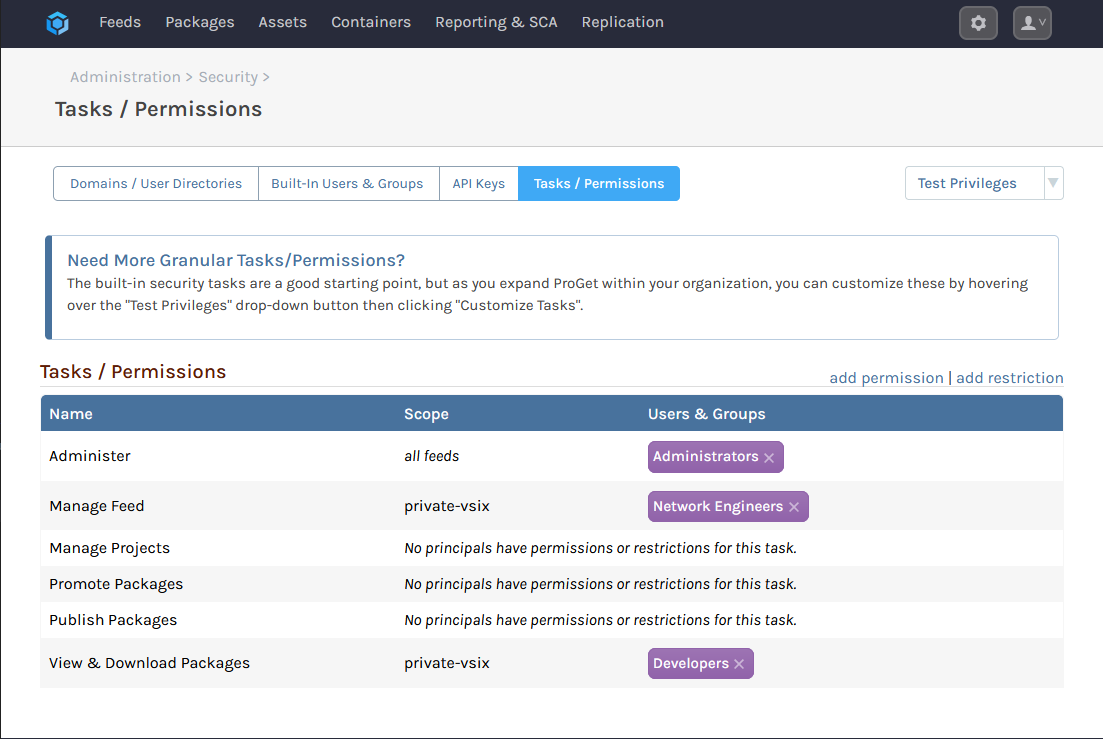
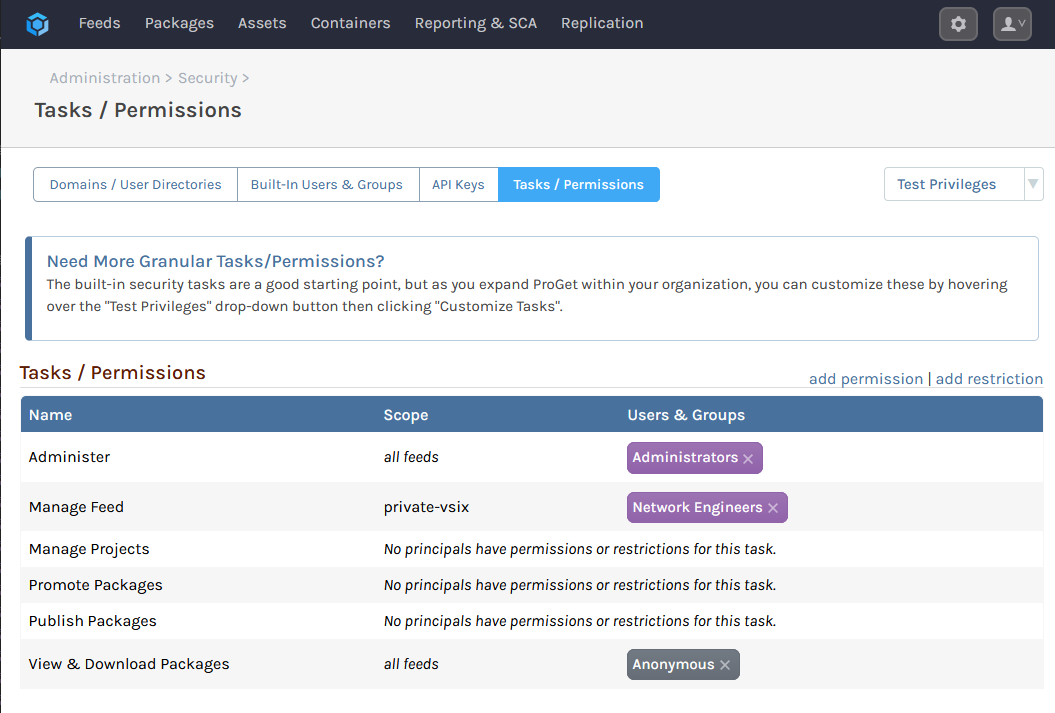
added more instructions (vsix)

diff --git a/Content/proget/feeds/vsix/howto-vsix-consume.md b/Content/proget/feeds/vsix/howto-vsix-consume.md
@@ -3,11 +3,11 @@ title: "HOWTO: Create a Private Extension Gallery for Visual Studio and Visual S
 order: 1
 ---
 
-By using ProGet, teams can take extension packages from Microsoft’s public Visual Studio Extension repository, the [Visual Studio Marketplace](https://marketplace.visualstudio.com/), and upload them to ProGet, creating a private extension gallery of curated packages that your team can access. 
+By using ProGet, teams can take extension packages from Microsoft’s public Visual Studio Extension repository, the [Visual Studio Marketplace](https://marketplace.visualstudio.com/), and upload them to ProGet as packages, creating a feed that acts as a private extension gallery of curated packages that your team can access. 
 
 If the Visual Studio Extension feed is hosted internally, this will also allow your team to access the packages in an offline environment. 
 
-This article will run through a standard example scenario of a company, Kramerica, configuring ProGet to create a private Visual Studio Extension gallery that can be accessed by both Visual Studio and Visual Studio code for their team to access and consume a curated selection of Visual Studio Extensions packages. This configuration would also allow the feed to be used offline.
+This article will run through a standard example scenario of a company, Kramerica, configuring ProGet to create a feed that acts as a private Visual Studio Extension gallery for a team using either Visual Studio and Visual Studio Code to access and consume a curated selection of Visual Studio Extension packages. This configuration would also allow the feed to be used offline.
 
 ## Step 1: Creating and Naming a New Feeds
 
@@ -27,7 +27,7 @@ Finally, we select "Create Feed", which will create the feed, and redirect us to
 
 ![Feed Detail](/resources/docs/proget-vsix-empty.png){height="" width="50%"}
 
-## Step 2: Set Permissions
+## Step 2: Set Permissions to Upload and Manage Packages
 
 There are many ways to [configure security access controls for uses and groups](/docs/proget/administration-security) in ProGet. In this example, we want to permit only administrators and network engineers to upload packages to the `private-vsix` feed, since they're trained to check the quality, licenses, and vulnerabilities of open-source packages. To ensure this rule, we'll set up a new permission. By default, only administrators have assigned permissions.
 
@@ -43,15 +43,17 @@ Next, we will fill out the following dialog to give the "Network Engineers" user
 
 ![Permit Manage Feed](/resources/docs/proget-vsix-permissions-managefeed.png){height="" width="50%"}
 
-Following the same steps, we will also give the "Developers" user group permission to "View and Download" packages from the `private-vsix` feed.
-
-![Permit View Feed](/resources/docs/proget-vsix-permissions-viewfeed.png){height="" width="50%"}
-
-After saving these two privileges, the task overview page looks like this:
+After saving these privileges, the task overview page looks like this:
 
 ![Overview](/resources/docs/proget-vsix-permissions-overview.png){height="" width="50%"}
 
-## Step 3: Upload Extension Packages to ProGet
+## Step 3: Set Permissions to View/Download Packages (Optional)
+
+To allow your developers to access your Visual Studio Extension Feed through Visual Studio, it will require "Anonymous" access to a ProGet instance. This is not possible if your instance of ProGet has built-in authentication enabled. To work around this problem, you can set up a second site in [IIS](/docs/installation/installing-on-iis/various-iis-configuring-iis-roles-and-features) without Windows Integrated Authentication enabled, pointing to the same path on disk.
+
+If you want to add permissions this way, first create
+
+## Step 3: Upload Extensions as Packages to ProGet
 
 Now we will populate our Visual Studio Extensions feed `private-vsix` with extensions. These can be downloaded from the [Visual Studio Marketplace](https://marketplace.visualstudio.com/). 
 
@@ -71,7 +73,6 @@ pgutil packages upload --feed=private-vsix --input-file=C:\visualstudio\extensio
 ```
 
 pgutil will require some [minor configuration](/docs/proget/reference-api/proget-pgutil#sources) before use.
-
 
 ### Option 2: Through the UI
 You can use the ProGet UI to upload packages. Navigate to "Feeds" > the `private-vsix` feed and select "Add Package" from the drop-down menu.
@@ -100,4 +101,20 @@ This allows you to install the extensions of your VSIX feed in addition to the e
 
 ![extensions](/resources/docs/visualstudio-extensions-manager.png){height="" width="50%"}
 
-## Step 4.1: Adding the Feed to Visual Studio Code
+## Step 4.1: Using Packages from a Feed with Visual Studio Code
+
+Currently Visual Studio Code does not support private galleries, despite there being a [request](https://github.com/microsoft/vscode/issues/21839) for it that has been open since 2017. You can still upload extensions to a VSIX feed, but users will need to manually download them and then import them into their Visual Studio Code.
+
+To download, navigate to a version of the package and select "Download Package"
+
+![download](/resources/docs/proget-vsix-downloadpackage.png){height="" width="50%"}
+
+Once the file is downloaded, in VS Code navigate to "Extensions" > "..." > "Install from VSIX" and then using the file browser to locate the `.vix` VS Code extension locally.
+
+![install](/resources/docs/vscode-installpackage.png){height="" width="50%"}
+
+### Adding Custom Feed Instructions (Optional)
+
+To provide developers using VS Code with the above guidance when using VS Code, you can add [Custom Feed Instructions](/docs/proget/feeds/feed-overview/proget-usage-instructions)
+
+To create custom feed instructions, navigate to your Visual Studio Extensions feed and select "Manage Feed".

diff --git a/Content/proget/feeds/vsix/#.md b/Content/proget/feeds/vsix/#.md
@@ -51,6 +51,11 @@ Note that PowerShell does not support TLS 1.2 (defined by [RFC 5246](https://too
 ProGet includes [Drop Path](/docs/proget/feeds/feed-overview/proget-bulk-import-with-droppath) support to Vsix feeds. 
 
 ## Installing Extensions
-This allows you to install the extensions of your VSIX feed in addition to the extensions in the built-in galleries using the "Extension Manager" window, opened by navigating to "Extensions" > "Manage Extensions".
+
+### In Visual Studio
+Install the extensions of your VSIX feed in addition to the extensions in the built-in galleries using the "Extension Manager" window, opened by navigating to "Extensions" > "Manage Extensions".
 
 ![extensions](/resources/docs/visualstudio-extensions-manager.png){height="" width="50%"}
+
+### In VS Code
+Currently Visual Studio Code does not support private galleries, despite there being a [request](https://github.com/microsoft/vscode/issues/21839) for it that has been open since 2017. You can still upload extensions to a VSIX feed, but users will need to manually download them from ProGet and then [import them into their Visual Studio Code](/docs/proget/feeds/vsix/howto-vsix-consume#step-4.1-using-packages-from-a-feed-with-visual-studio-code).{height="" width="50%"}
